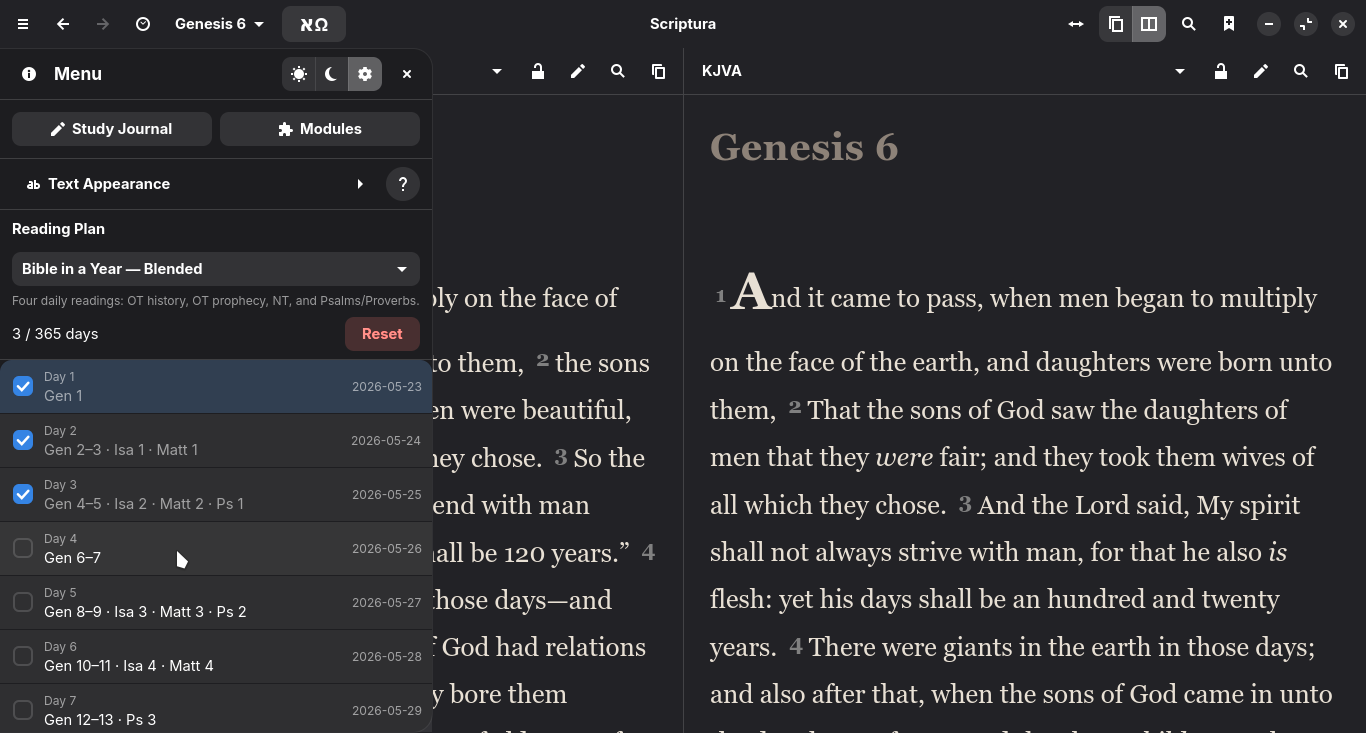
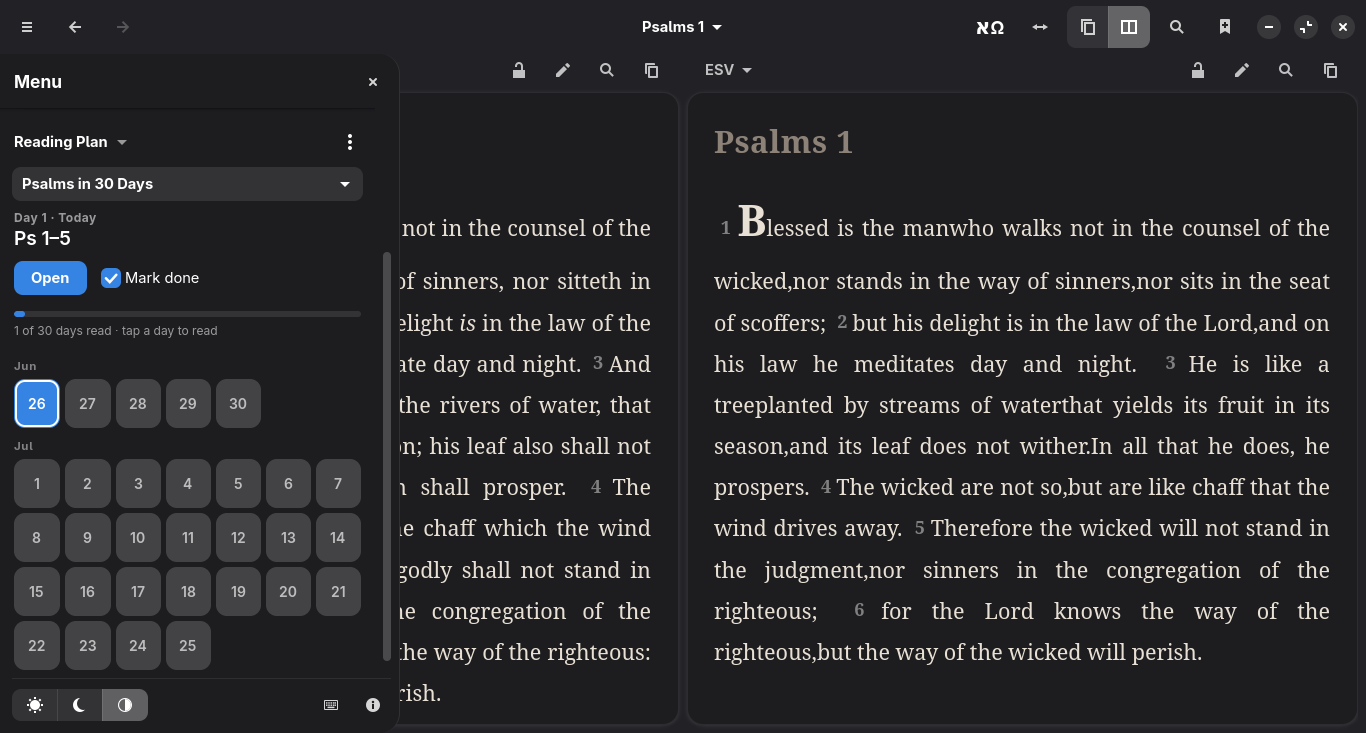
screenshots: refresh reading plan; swap translation-comparison for catena
Refresh 04-reading-plan.png to the calendar-tile redesign. Replace
02-translation-comparison.png with 02-historical-commentaries.png — the
new shot shows the Historical Commentaries ("Voices of the Church") pane,
a more distinctive feature than another side-by-side (01 already shows two
panes). Update the metainfo <image> URL + caption and the screenshots doc
to match.

diff --git a/data/screenshots/README.md b/data/screenshots/README.md
@@ -31,7 +31,7 @@ captions. Renaming one means editing the metainfo to match.
 | File | Caption (must match metainfo) |
 | --- | --- |
 | `01-two-pane-lexicon.png` | Two-pane reading with the Strong's lexicon open on a Greek word |
-| `02-translation-comparison.png` | Two translations side by side, sharing a verse selection |
+| `02-historical-commentaries.png` | The Historical Commentaries pane — the church's voices on a verse, across the centuries |
 | `03-study-journal.png` | Study Journal — every annotation in one filterable surface |
 | `04-reading-plan.png` | Built-in reading plans with day-by-day progress |
 | `05-reading-mode-dark.png` | F11 reading mode hides all chrome for distraction-free reading |